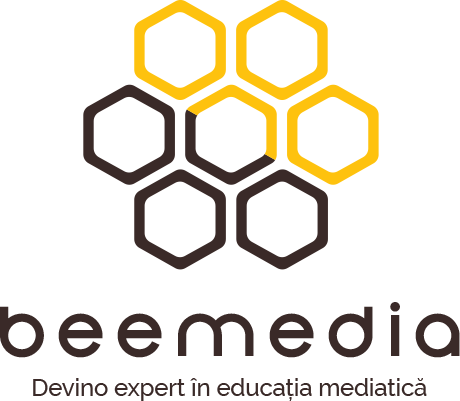
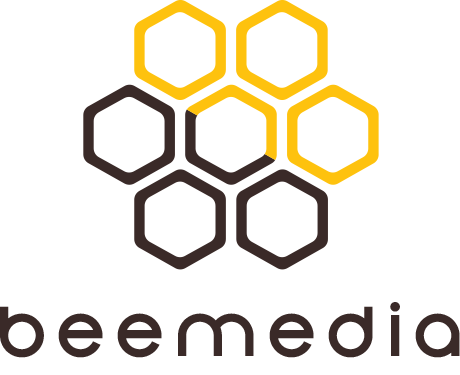
Change to beemedia

diff --git a/html/index.html b/html/index.html
@@ -1,7 +1,9 @@
 <!DOCTYPE html>
+
 <html>
 <head>
-    <title>BeeAlert</title>
+    <meta charset="UTF-8">
+    <title>BeeMedia</title>
     <meta name="viewport" content="width=device-width, initial-scale=1, maximum-scale=1">
 
 
@@ -53,7 +55,7 @@
 
                     <!-- Text-Logo -->
                     <a href="#top" class="navbar-brand scrollto" title="BeeAlert">
-                        <span class="text-logo">beealert</span>
+                        <span class="text-logo">beemedia</span>
                     </a>
                 </div>
                 <!-- /End Navbar-Header -->
@@ -183,7 +185,7 @@
     <div class="container vmiddle">
         <div class="row">
             <div class="col-lg-7 col-xs-7">
-                <img src="./assets/images/beealert.png" class="img-responsive" alt=""></div>
+                <img src="./assets/images/beeMedia1.png" class="img-responsive" alt=""></div>
             <div class="col-lg-5 col-xs-5">
                 <div class="hero-section">
 

diff --git a/routes/index.js b/routes/index.js
@@ -3,7 +3,7 @@ var router = express.Router();
 
 /* GET home page. Slash is home page*/
 router.get('/', ensureAuthenticated,function(req, res,next) {
-  res.render('layout');
+  res.render('index');
 });
 
 function ensureAuthenticated(req,res,next){
@@ -11,7 +11,7 @@ function ensureAuthenticated(req,res,next){
       return next();
   }else{
  /*   req.flash('error_msg','You are not logged in');*/
-    res.redirect('/users/layout');
+    res.redirect('/users/login');
   }
 }
 

diff --git a/routes/users.js b/routes/users.js
@@ -21,9 +21,17 @@ router.get('/feeds', function(req, res, data) {
     });
 });
 
+router.get('/energy', function(req, res, data) {
+    parser.parseURL('http://www.gasnaturalfenosa.md/rssplanificate', function(err, parsed) {
+        res.json(parsed.feed.entries);
+    });
+});
 
 
 
+router.get('/login',function(req,res){
+        res.render('login');
+});
 
 
 /* Login validation*/
